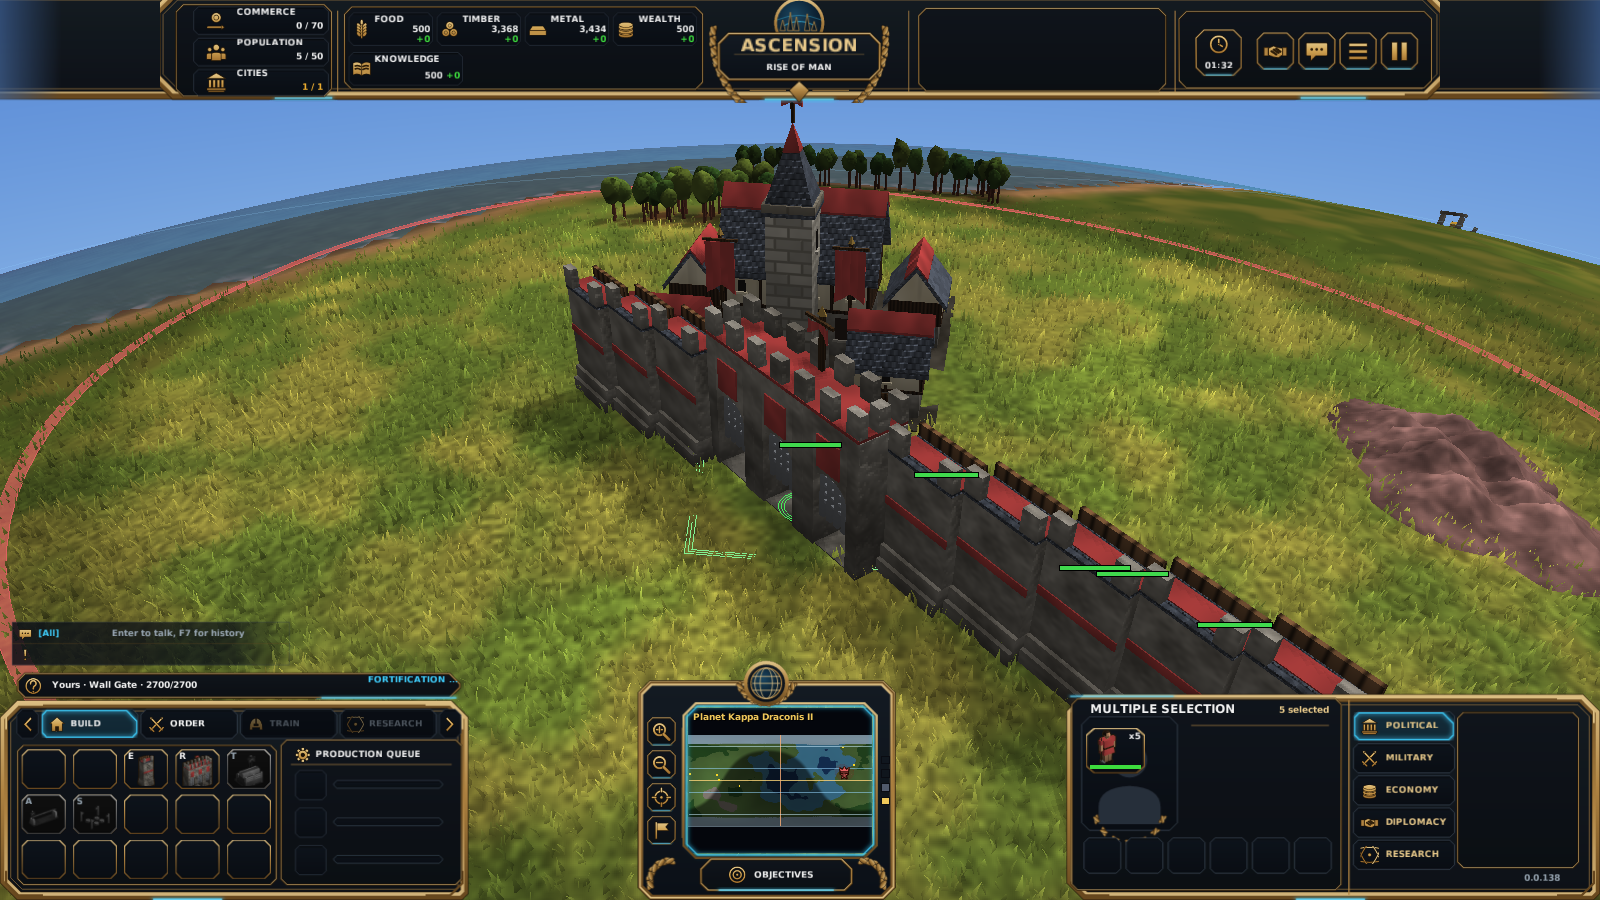
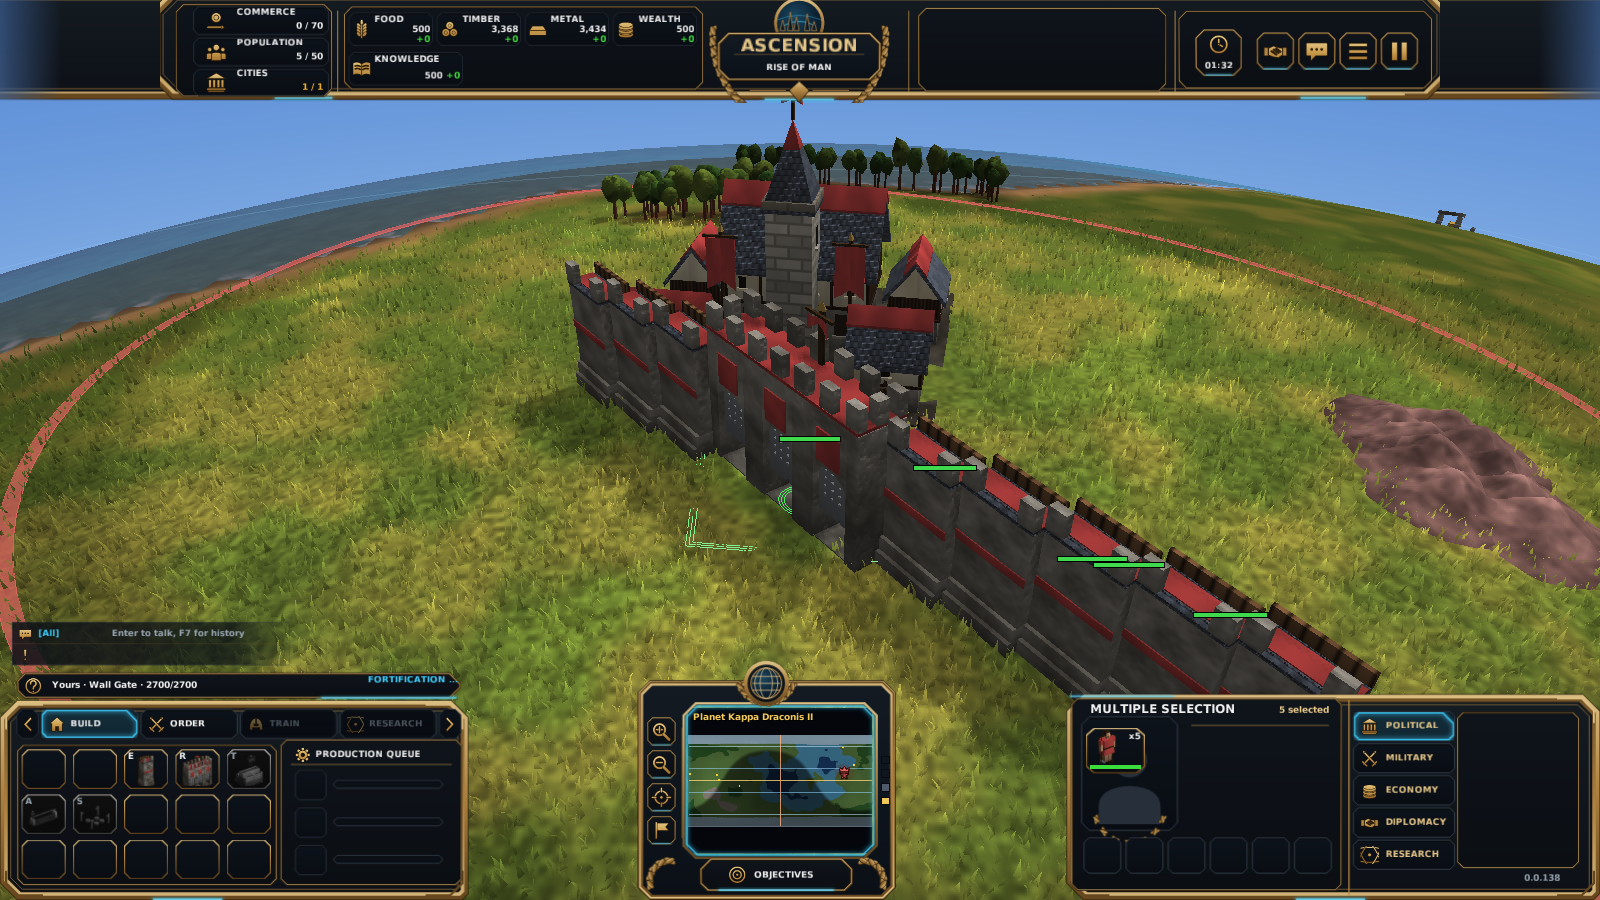
Task 147b: gate models within their budgets
The widened gates kept to the model rules: a team-coloured part widened across
a gate becomes structure with the team colour on its middle only (palisade and
wall gates of the ancient, gunpowder, medieval, industrial and automation
looks, checkpoints of the industrial and automation ones), so each stays at 12
to 30 % team colour; depths stay within one tile (the ancient gate's leaves,
the gunpowder scarps, the medieval wall walk). Files written back through the
model export and import. Screenshots retaken with them.

Changed region(s): [[0.0, 0.1556, 1.0, 1.0]]

diff --git a/app/docs/database.md b/app/docs/database.md
@@ -2774,7 +2774,9 @@ interface, the drawing of joined segments and the computer player's use of them 
   Measured: `rom playthrough --seed 1` hash `abee291cb764153a`, ascension `1ee55ed65a7c141b`
   (before: `acc4db242db8a622`, `91692088c29e53a3`); with the gates set back to one tile in the
   same build both come back exactly, so the move is the playthrough bot's gate standing three
-  tiles wide. Rules fingerprint `367cf6ad6ec6c5c1`.
+  tiles wide. Rules fingerprint `f6ba40204370fc84` (gate footprints, gate models, the order
+  table). The gate models keep the art direction's team colour share: a part widened across
+  the gate is structure, with the team colour on its middle tile only.
 - **The computer player (147b)**: see `computer-player.md`, "Fortifications and minefields".
 - **The computer player (147a)** read none of this. Its construction manager builds the first of a
   building line it has none of at a low score when nothing better waits, so it may lay one
